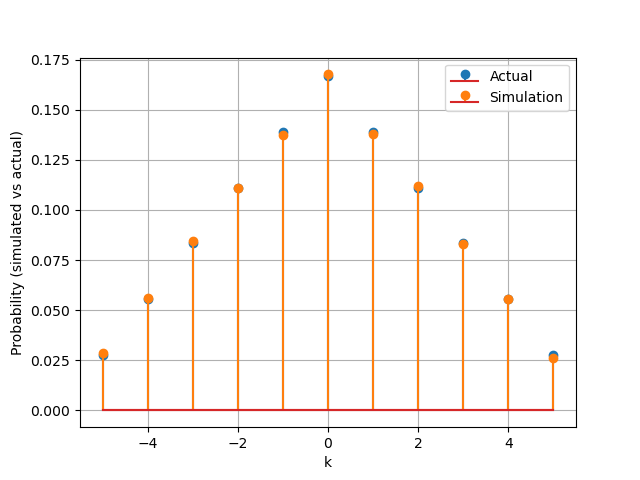
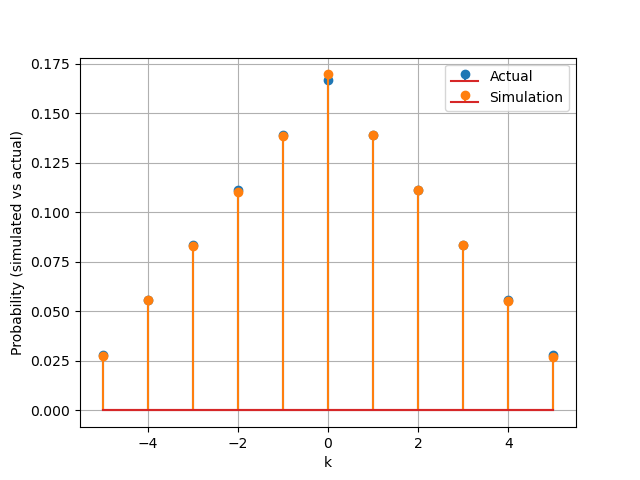
made the final changes hopefully

diff --git a/ncertExemplar/codes/main.py b/ncertExemplar/codes/main.py
@@ -20,10 +20,10 @@ def generate_pmf(size):
 
 pmf_X = generate_pmf(size)
 pmf_Y = generate_pmf(size)
-pmf_W = np.convolve(pmf_X, pmf_Y, mode='full')
+pmf_W_act = np.convolve(pmf_X, pmf_Y, mode='full')
 
 # Calculate the actual probability of getting the same number on both dice (W = 0)
-act_prob_same_no = pmf_W[5]  # Probability at W = 0
+act_prob_same_no = pmf_W_act[5]  # Probability at W = 0
 # Calculate the actual probability of getting different numbers on both dice (|W| > 0)
 act_prob_diff_nos = 1 - act_prob_same_no
 
@@ -34,16 +34,16 @@ Y_simulated = np.random.randint(1, size + 1, num_samples)
 
 # Calculate W for each pair of X and Y
 W_simulated = X_simulated - Y_simulated
+pmf_W_sim = np.bincount(W_simulated + size - 1) / num_samples
 
 # Calculate the simulated probability of getting the same number on both dice (W = 0)
-sim_prob_same_no = np.sum(W_simulated == 0) / num_samples
-
+sim_prob_same_no = pmf_W_sim[5]  # Probability at W = 0
 # Calculate the simulated probability of getting different numbers on both dice (|W| > 0)
-sim_prob_diff_nos = np.sum(W_simulated != 0) / num_samples
+sim_prob_diff_nos = 1 - sim_prob_same_no
 
 print("Actual Probability (W = 0):", act_prob_same_no)
 print("Simulated Probability (W = 0):", sim_prob_same_no)
-#
+
 if np.isclose(act_prob_same_no, act_prob_same_no):
     print("Hence verified for same number on both dice")
 else:
@@ -54,14 +54,13 @@ print("Simulated Probability (W ≠ 0):", sim_prob_diff_nos)
 
 if np.isclose(act_prob_diff_nos, act_prob_diff_nos):
     print("Hence verified for different numbers on both dice")
-
 else:
     print("error")
 
 k_values = np.arange(-size + 1, size) 
    
-plt.stem(k_values, pmf_W, markerfmt='o', linefmt='C0-', use_line_collection=True, label='Actual')
-plt.stem(k_values,np.bincount(W_simulated + size - 1) / num_samples, markerfmt='o', linefmt='C1-', use_line_collection=True, label='Simulation')
+plt.stem(k_values, pmf_W_act, markerfmt='o', linefmt='C0-', use_line_collection=True, label='Actual')
+plt.stem(k_values, pmf_W_sim, markerfmt='o', linefmt='C1-', use_line_collection=True, label='Simulation')
 plt.xlabel("k")
 plt.ylabel("Probability (simulated vs actual)")
 plt.legend()
